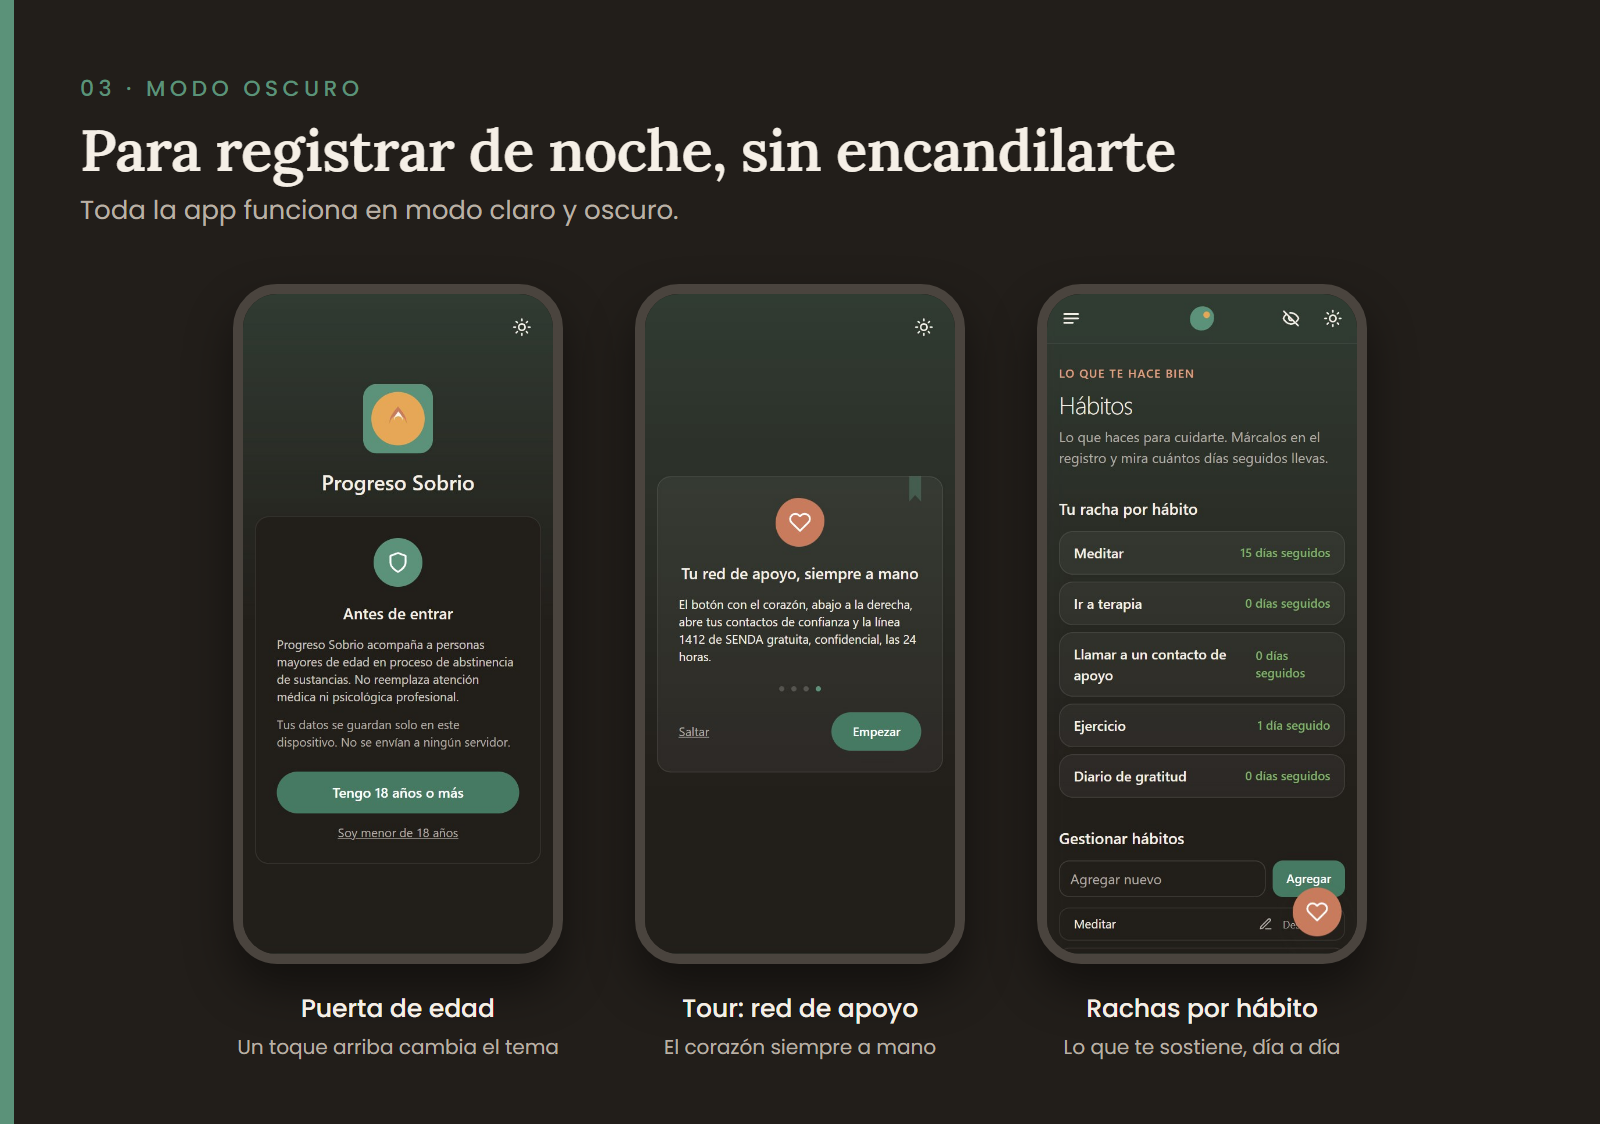
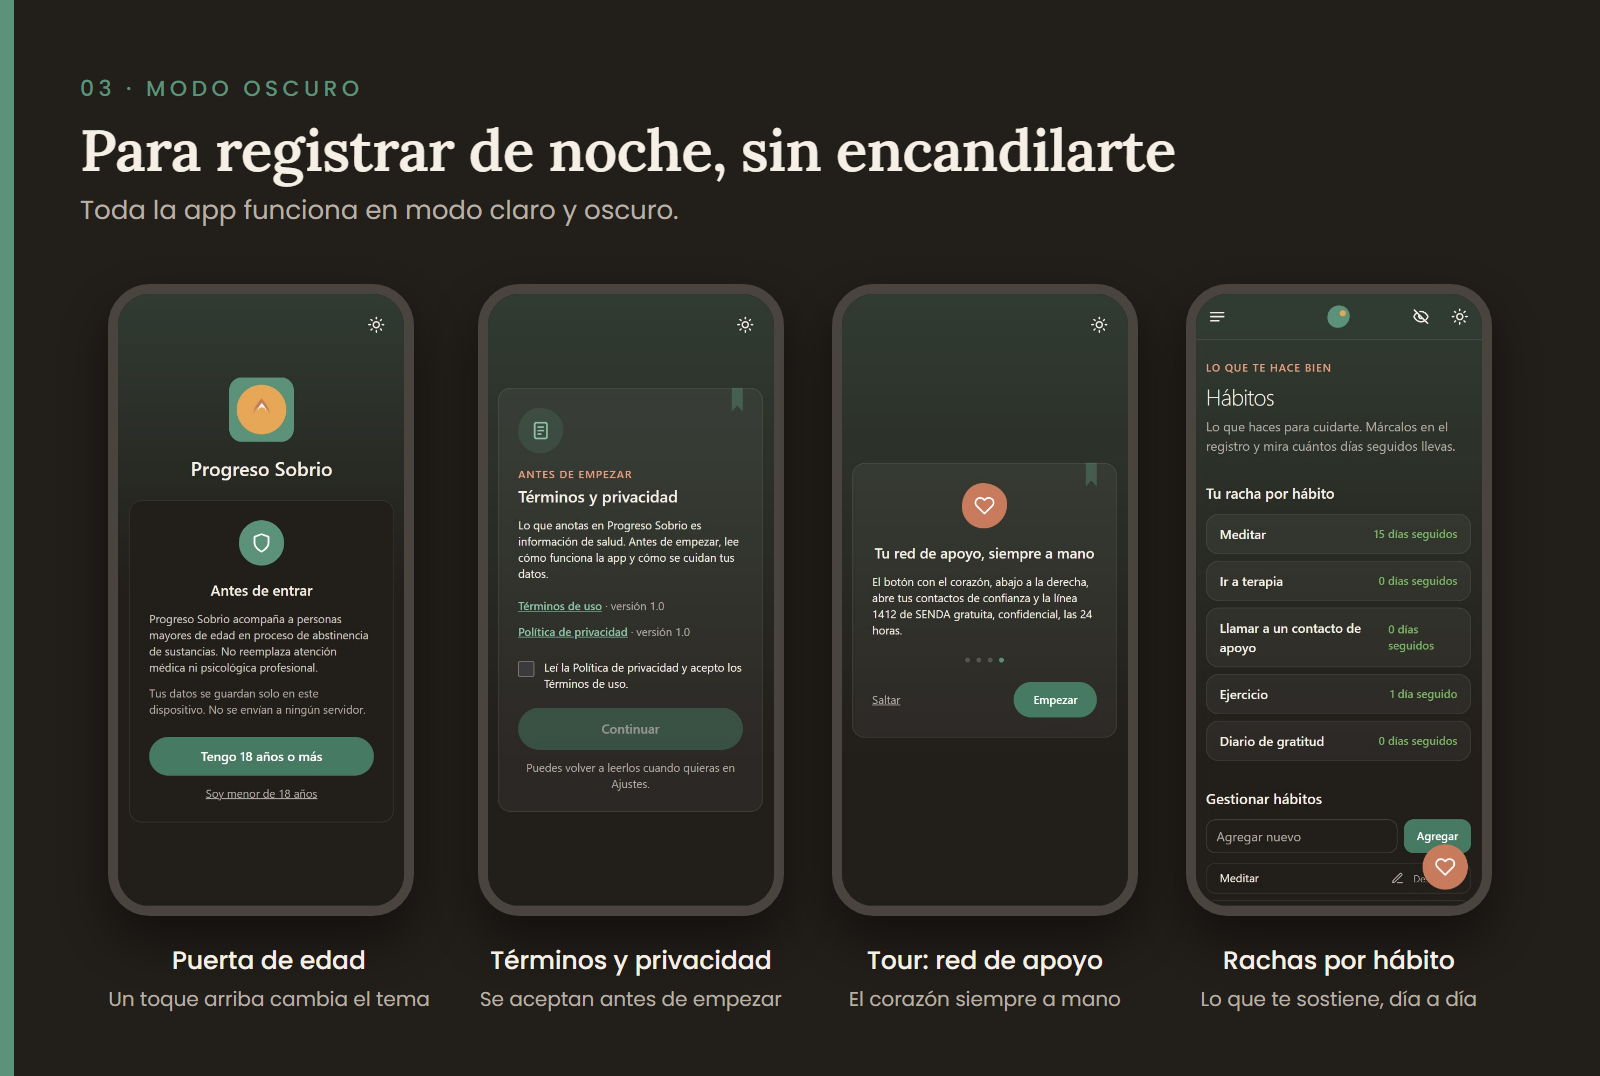
docs: pantalla de términos en el collage de modo oscuro

diff --git a/.github/imagenes/03-modo-oscuro.html b/.github/imagenes/03-modo-oscuro.html
@@ -11,10 +11,14 @@
     <h1 class="titulo">Para registrar de noche, sin encandilarte</h1>
     <p class="bajada">Toda la app funciona en modo claro y oscuro.</p>
 
-    <div class="fila">
+    <div class="fila cuatro">
       <figure>
         <div class="telefono"><img src="capturas/03-puerta-edad-oscuro.jpg" alt=""></div>
         <figcaption><strong>Puerta de edad</strong><span>Un toque arriba cambia el tema</span></figcaption>
+      </figure>
+      <figure>
+        <div class="telefono"><img src="capturas/03-terminos-oscuro.jpg" alt=""></div>
+        <figcaption><strong>Términos y privacidad</strong><span>Se aceptan antes de empezar</span></figcaption>
       </figure>
       <figure>
         <div class="telefono"><img src="capturas/03-tour-red-de-apoyo-oscuro.jpg" alt=""></div>

diff --git a/README.md b/README.md
@@ -110,7 +110,7 @@ La parte de los recordatorios sí calzaba, así que la convertimos en el [issue 
 </p>
 
 <p align="center">
-<img src=".github/screenshots/capturas-modo-oscuro.png" alt="Modo oscuro: puerta de edad, tour de red de apoyo y rachas por hábito">
+<img src=".github/screenshots/capturas-modo-oscuro.png" alt="Modo oscuro: puerta de edad, términos y privacidad, tour de red de apoyo y rachas por hábito">
 </p>
 
 <p align="center">
